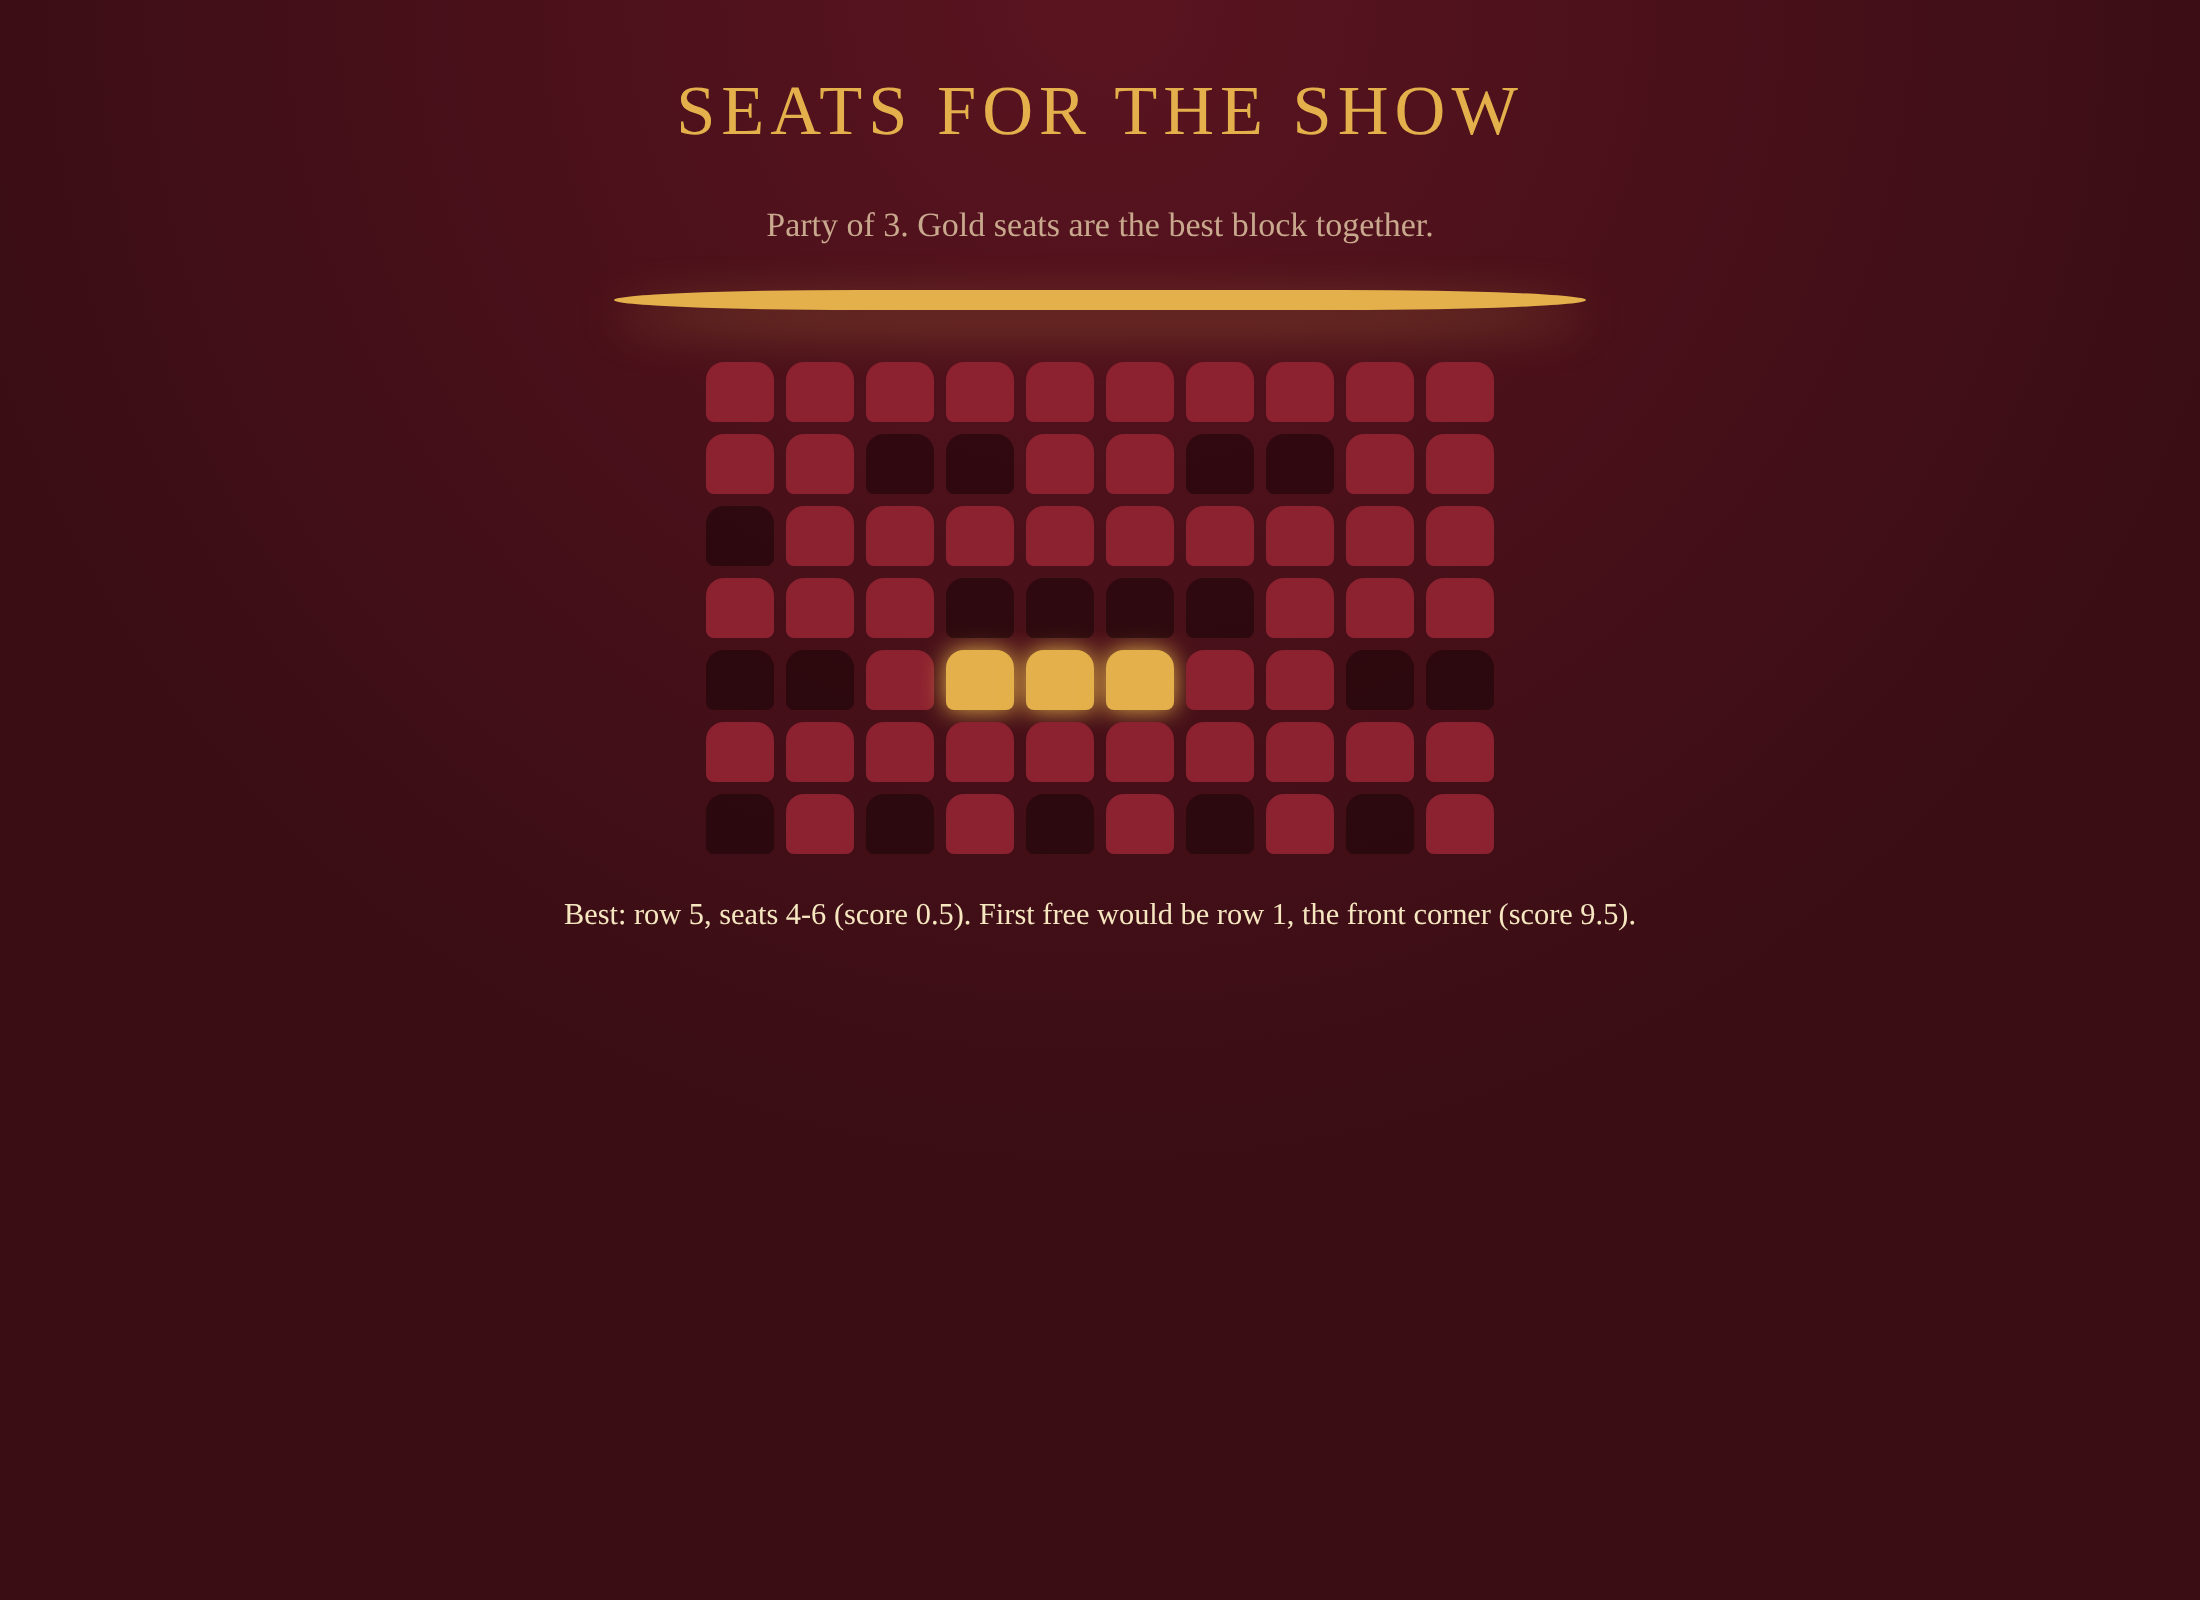
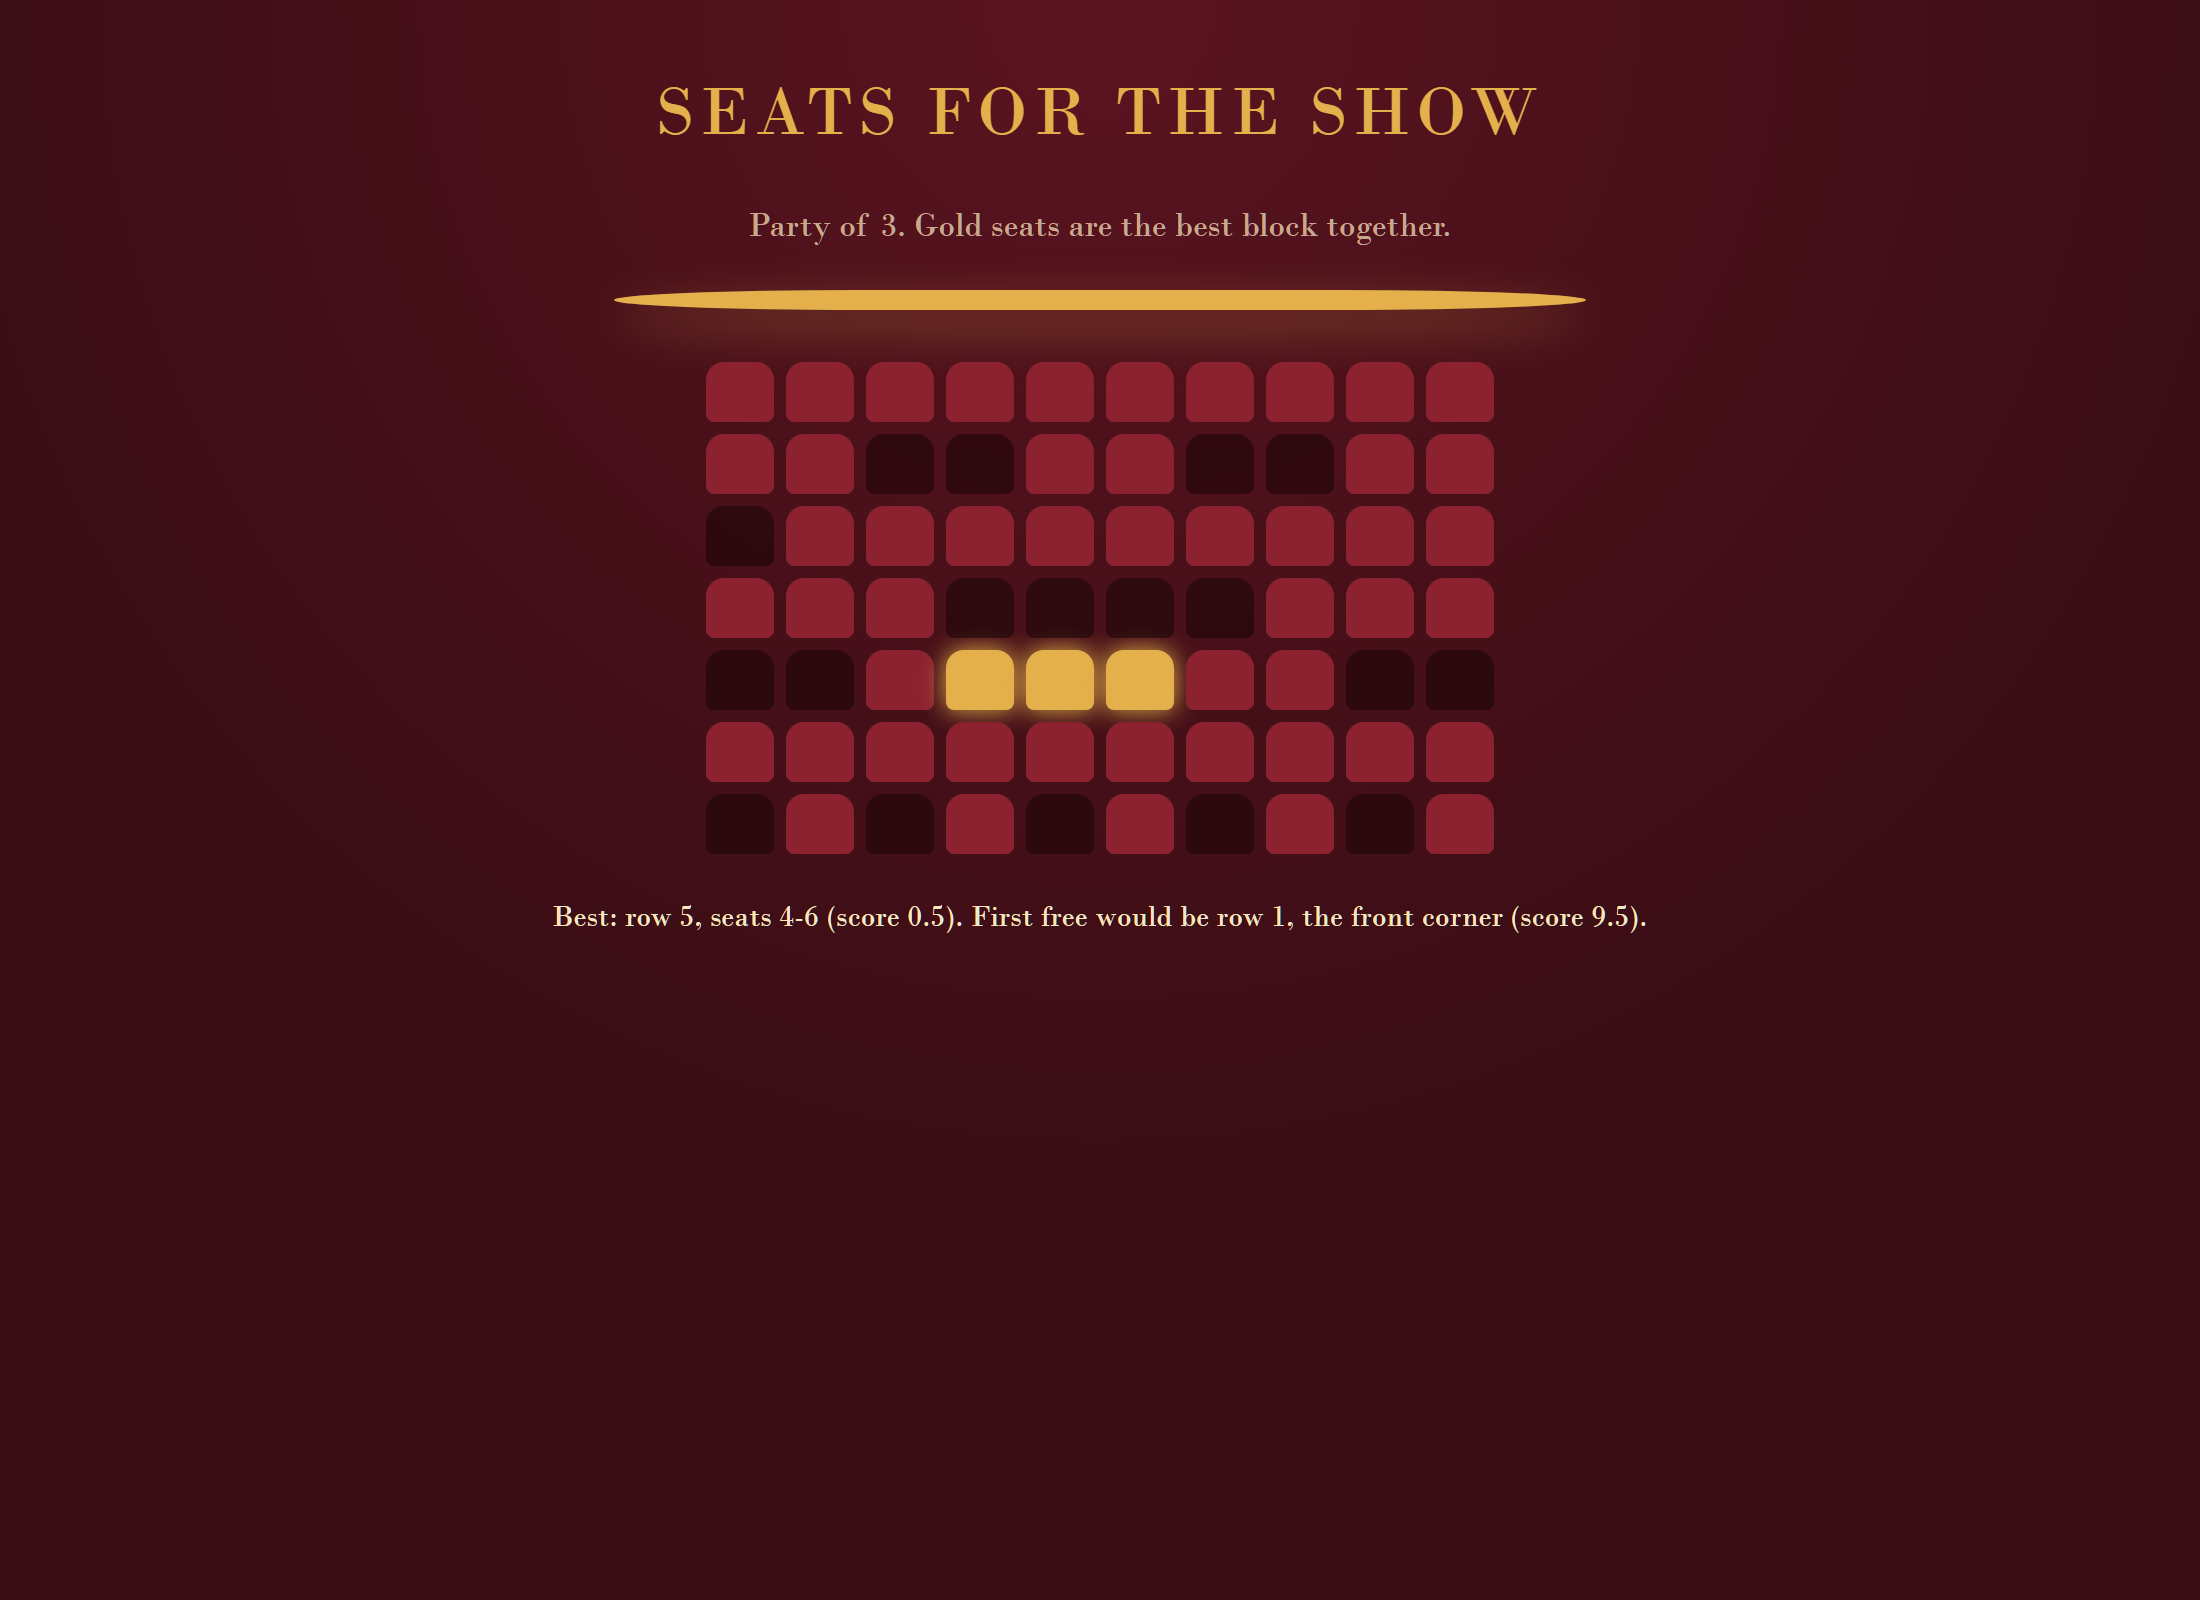
Improve cinema-seat-picker

diff --git a/static/index.html b/static/index.html
@@ -3,22 +3,24 @@
 <title>Cinema Seat Picker</title>
 <style>
 :root{--bg:#3a0d14;--ink:#f6e7c1;--gold:#e3b04b;--seat:#8c2230;--taken:#1c0508;--mute:#c9a98e}
+@media (prefers-color-scheme: dark){:root{--bg:#0d0d12;--ink:#eeeef4;--taken:#2a2a33;--mute:#a9a9b8}}
 *{box-sizing:border-box}body{margin:0;background:radial-gradient(circle at 50% 0,#5a1420,var(--bg) 60%);color:var(--ink);font:17px/1.5 "Didot","Bodoni MT",Georgia,serif;min-height:100vh}
 main{max-width:640px;margin:0 auto;padding:30px 16px;text-align:center}h1{margin:0;font-weight:normal;font-size:2.2rem;color:var(--gold);letter-spacing:3px;text-transform:uppercase}p{color:var(--mute)}
 .screen{height:10px;background:var(--gold);border-radius:50%/100%;margin:20px 10% 26px;box-shadow:0 8px 24px #e3b04b66}
-.map{display:inline-grid;gap:6px}.row{display:flex;gap:6px;justify-content:center}
-.s{width:34px;height:30px;border-radius:9px 9px 4px 4px;background:var(--seat)}.s.X{background:var(--taken);opacity:.6}.s.O{background:var(--gold);box-shadow:0 0 12px var(--gold)}
+.map{display:inline-grid;gap:6px;max-width:100%}.row{display:flex;gap:clamp(2px,0.6vw,6px);justify-content:center}
+.s{width:clamp(12px,3.2vw,34px);height:clamp(11px,2.8vw,30px);border-radius:9px 9px 4px 4px;background:var(--seat)}.s.X{background:var(--taken);opacity:.6}.s.O{background:var(--gold);box-shadow:0 0 12px var(--gold)}
 .cap{margin-top:20px;font-size:.95rem}.cap b{color:var(--gold)}
 </style></head><body><main>
 <h1>Seats for the show</h1><p id="sub"></p><div class="screen"></div>
-<div class="map" id="map"></div><div class="cap" id="cap"></div></main>
+<div class="map" id="map" role="img" aria-label="Seat map, best block highlighted"></div><div class="cap" id="cap" role="status"></div></main>
 <script>
 const seat=m=>m.map(r=>`<div class="row">${[...r].map(ch=>`<div class="s ${ch==="."?"":ch}"></div>`).join("")}</div>`).join("");
-(async()=>{
+(async()=>{try{
   const s=await (await fetch("/sample")).json();
   const r=await (await fetch("/pick",{method:"POST",headers:{"Content-Type":"application/json"},body:JSON.stringify({rows:s.rows,party:s.party})})).json();
   document.getElementById("sub").textContent=`Party of ${s.party}. Gold seats are the best block together.`;
   document.getElementById("map").innerHTML=seat(r.map);
   document.getElementById("cap").innerHTML=`Best: row ${r.best.row+1}, seats ${r.best.start+1}-${r.best.start+r.best.size} (score ${r.best.score}). First free would be row ${r.first_free.row+1}, the front corner (score ${r.first_free.score}).`;
+}catch(e){document.getElementById("cap").textContent="Could not find seats. Refresh to try again.";}
 })();
 </script></body></html>

diff --git a/tests/test_all.py b/tests/test_all.py
@@ -64,3 +64,19 @@ def test_api():
     assert r["best"]["row"] == 4 and r["map"][4] == "XX.OOO..XX"
     assert c.get("/").status_code == 200
     assert c.post("/pick", json={"rows": ["..", "."], "party": 1}).status_code == 422
+
+
+def test_index_has_error_text():
+    assert "Could not find seats" in c.get("/").text
+
+
+def test_seat_map_is_labelled():
+    assert 'aria-label="Seat map, best block highlighted"' in c.get("/").text
+
+
+def test_caption_is_live():
+    assert 'id="cap" role="status"' in c.get("/").text
+
+
+def test_index_has_dark_scheme():
+    assert "prefers-color-scheme: dark" in c.get("/").text
